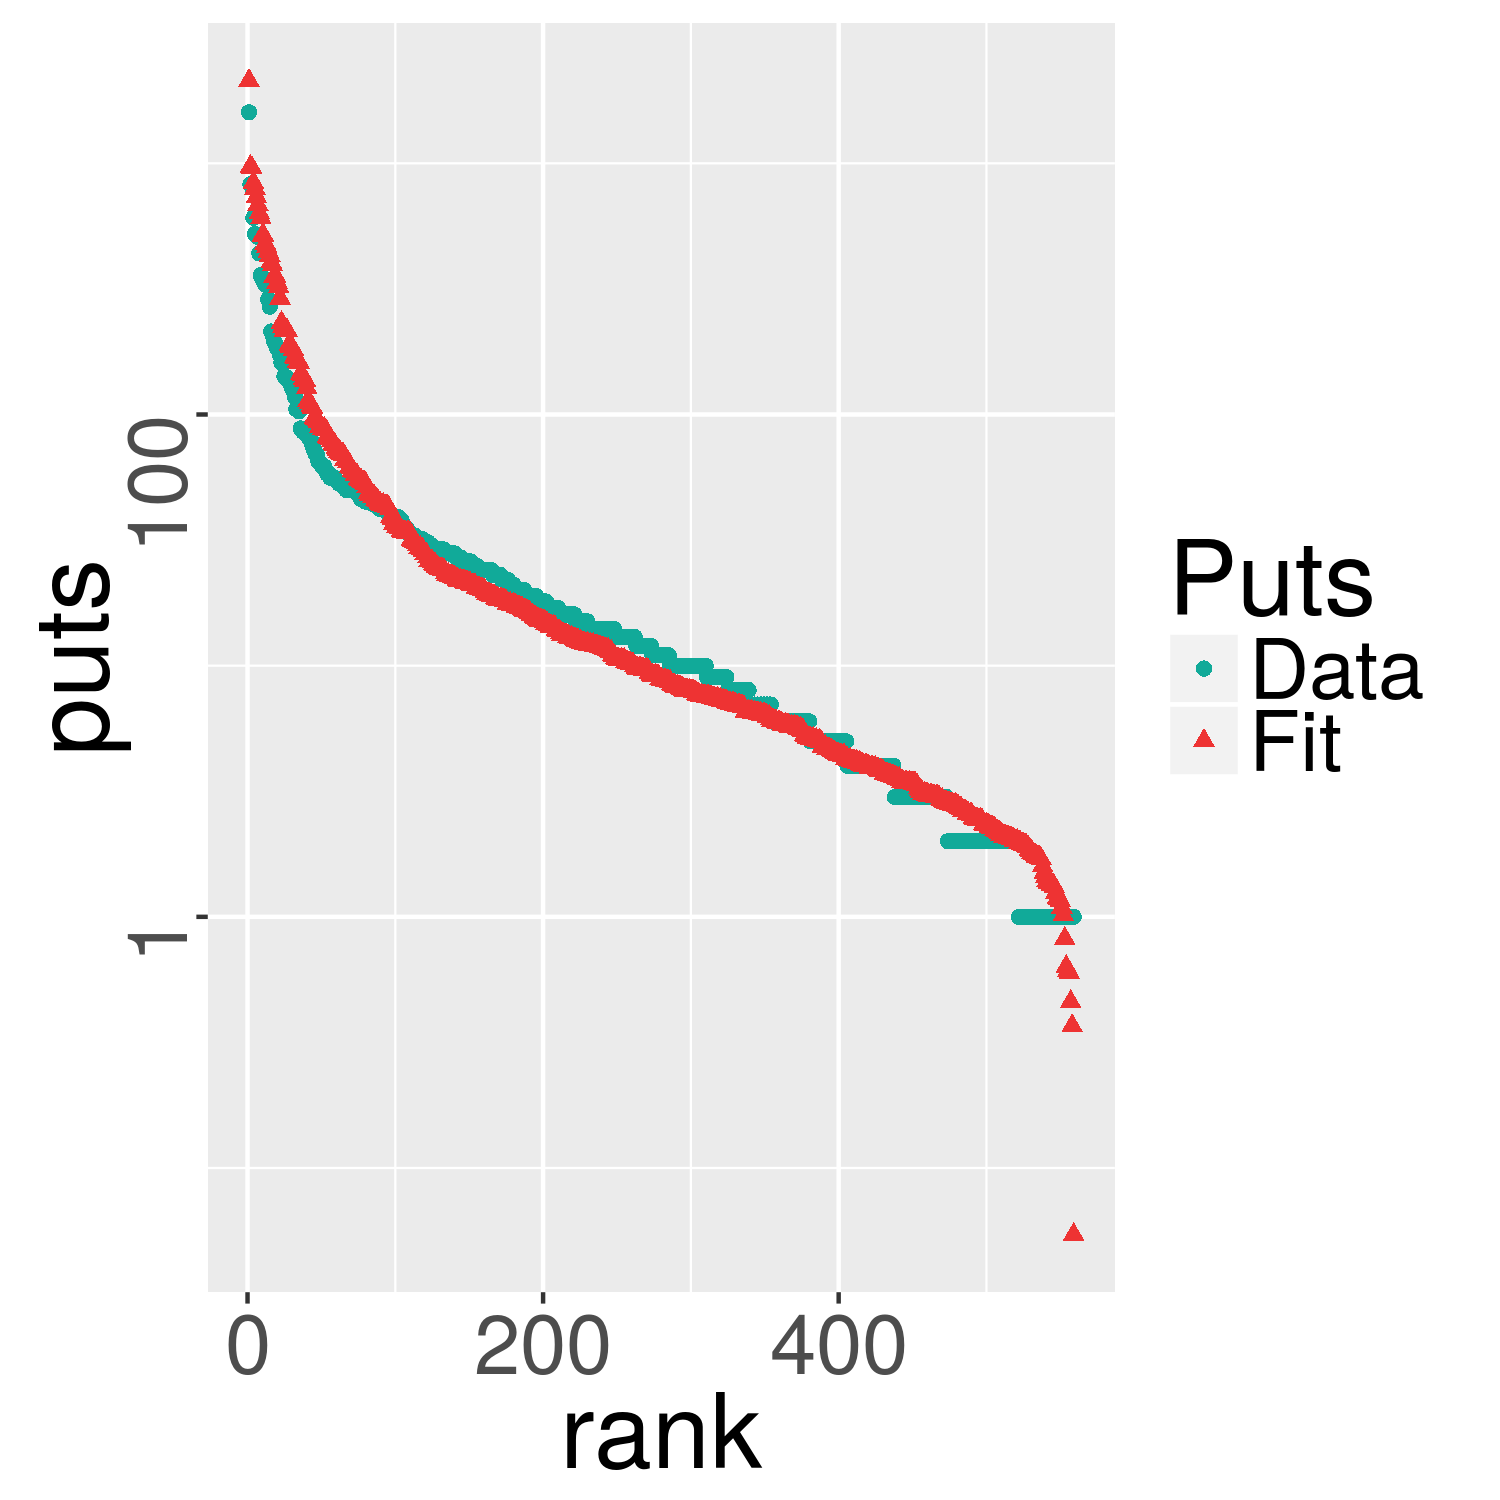
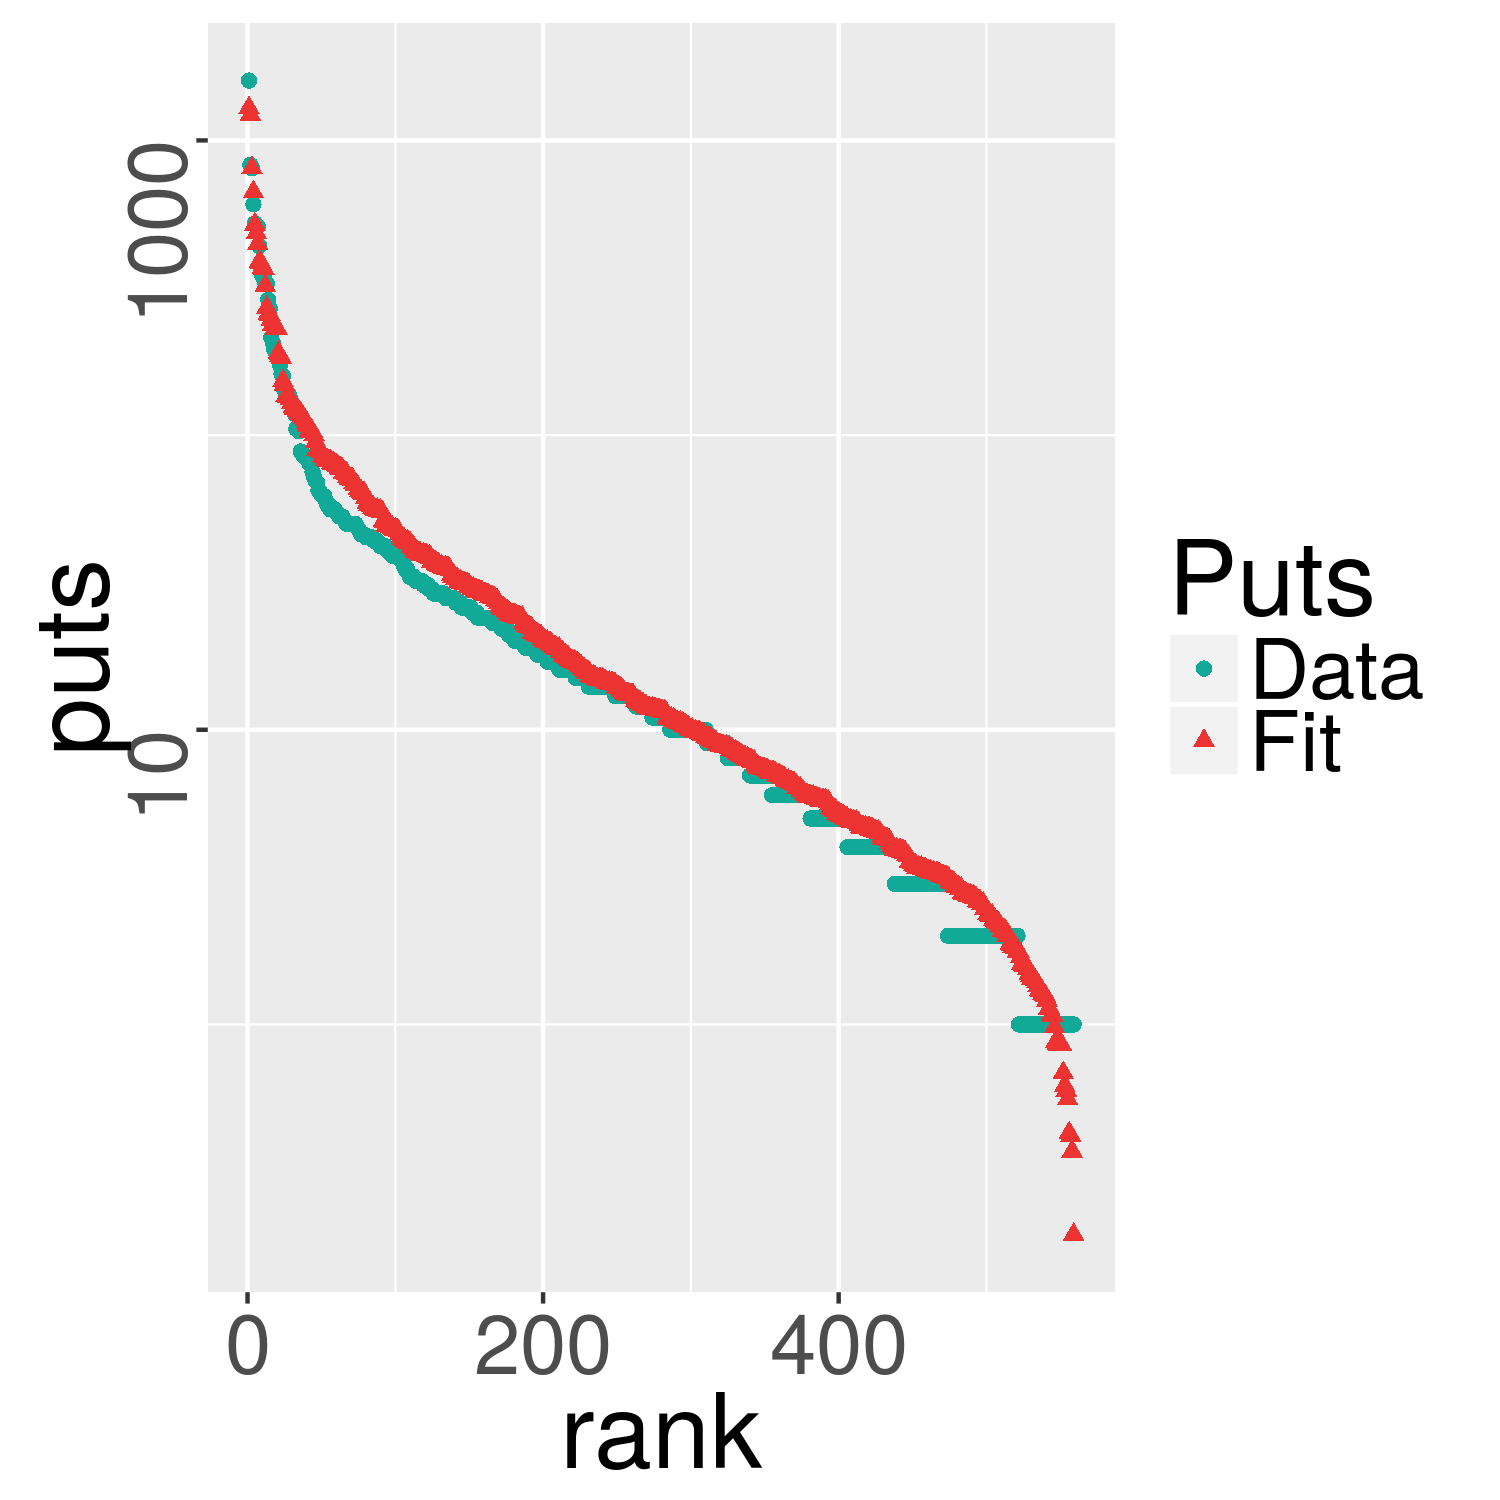
processing the Weibull distribution

diff --git a/Alife16/paper.tex b/Alife16/paper.tex
@@ -160,7 +160,8 @@ are just a few that give many cycles.
 As far as we know, this paper presents one of the few experiments
 that measure the performance of a sociotechnical
 metacomputer, that is, a spontaneously created parallel computer that
-uses social networks for operations such as gathering new users. Apol{\'o}nia et al. \citep{apolonia2012enhancing} used the
+uses social networks for operations such as gathering new
+users. Apol{\'o}nia et al. \citep{apolonia2012enhancing} used the 
 Facebook protocol to distribute tasks among the {\em walls} of
 friends, explicitly using the social network for computing. However,
 it stopped short of relating performance to the macro measures of the
@@ -190,14 +191,10 @@ spontaneously and without any installation with them.
 
 In this sense, in this paper we propose the {\sf NodIO} framework, a
 cloud or bare metal based volunteer evolutionary computing system
-derived from % (Paloma) In order to not sounding too repetitive, could we use "derived from", for example, here?
- the {\sf NodEO} library, whose architecture has been
+derived from the {\sf NodEO} library, whose architecture has been
 developed using JavaScript on the client as well as the server.
 All parts of the framework are free and available with a free license
 from \url{https://github.com/JJ/splash-volunteer}.
-
-%PABLO: el siguiente párrafo justifica Javascript
-
 
 Thus, {\sf NodIO} architecture has two tiers:\begin{enumerate}
 \item A REST server, that is, a server that includes several {\em
@@ -482,26 +479,34 @@ exponential distribution that corresponds to the Zipf's law.
 \label{fig:puts:os}
 \end{figure}
 %
- This exponential distribution also appears in the
-distribution of HTTP {\tt PUT}s, equivalent to the number of
-generations divided by 100, contributed by every user, which is shown
+A similar exponential distribution also appears if we rank HTTP {\tt
+  PUT}s, equivalents to the number of 
+generations divided by 100, or to evaluations divided by 12800,
+contributed by every user, which is shown 
 in Figure \ref{fig:puts:os}. These results show a Zipf-like behavior,
-so we have fitted it to the Generalized Extreme Value distribution,
-with the resulting parameters shown in Table \ref{tab:puts:os}.
+that is, a power law with a small {\em bump} in the lowest
+values. After testing the Generalized Extreme Value distribution and
+failing for the new batch of experiments, we have fitted it to a
+Weibull distribution \cite{thoman1969inferences} with the resulting
+parameters shown in Table \ref{tab:puts:os}. 
 %
 \begin{table}
-\caption{Summary of fit to Generalized Extreme Value distribution of
+\caption{Weibull distribution  parameters of the fit of
   the number of {\tt PUT}s per unique IP. \label{tab:puts:os}}
 \begin{center}
-\begin{tabular}{l|ccc}
+\begin{tabular}{l|cc}
 \hline
-Date  & Location $\mu$ & Scale $\sigma$ & Shape $\xi$ \\
+Experiment  &  Scale $\sigma$ & Shape $\xi$ \\
 \hline
-4/4 &  8.541 $\pm$ 1.0926  & 12.442 $\pm$ 1.7302 &  1.388 $\pm$
-0.1377 \\
-4/24 & 6.148 $\pm$ 0.3782 & 7.354 $\pm$ 0.5105 & 1.090 $\pm$  0.0697  \\
-7/31 & 11.645 $\pm$ 1.475 & 16.365 $\pm$ 2.201 &  1.265 $\pm$ 0.132   \\
+4/4 &  43.07 $\pm$ 5.80 &  0.57 $\pm$ 0.03 \\
+4/24 & 22.97 $\pm$ 1.57 & 0.66 $\pm$  0.02  \\
+7/31 &  53.18 $\pm$ 7.77 &  0.54 $\pm$ 0.03   \\
 \hline
+Cache 128 & 205.28 $\pm$ 32.10 & 0.77 $\pm$ 0.07 \\ 
+Cache 64 & 178.99 $\pm$ 36.44 & 0.60 $\pm$ 0.05 \\ 
+Cache 32 & 168.15 $\pm$ 49.28 & 0.57 $\pm$ 0.07 \\
+\hline
+% from plot-zipf-openshift.R and ips-puts-alife.R
 \end{tabular}
 \end{center}
 \end{table}
